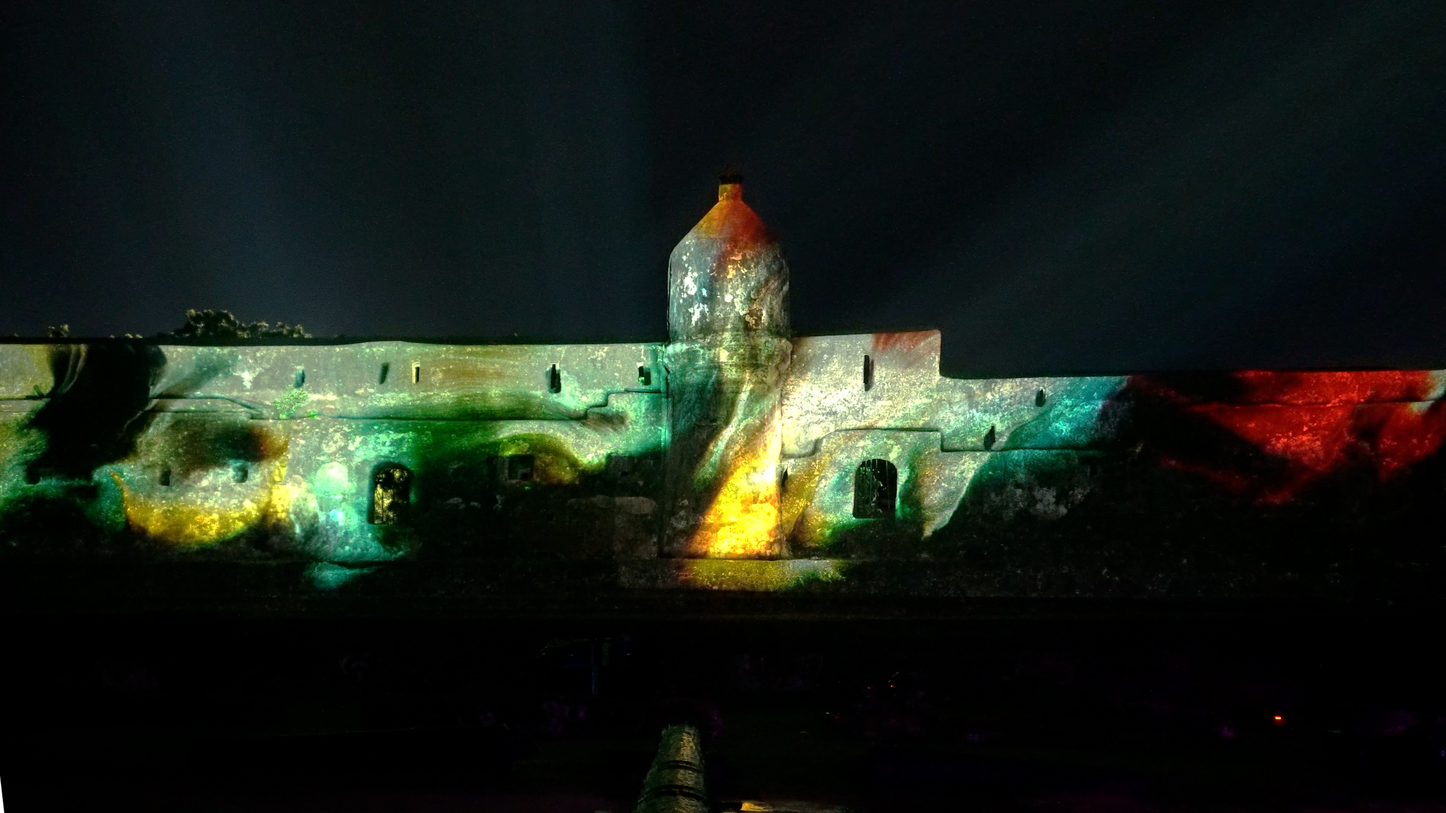
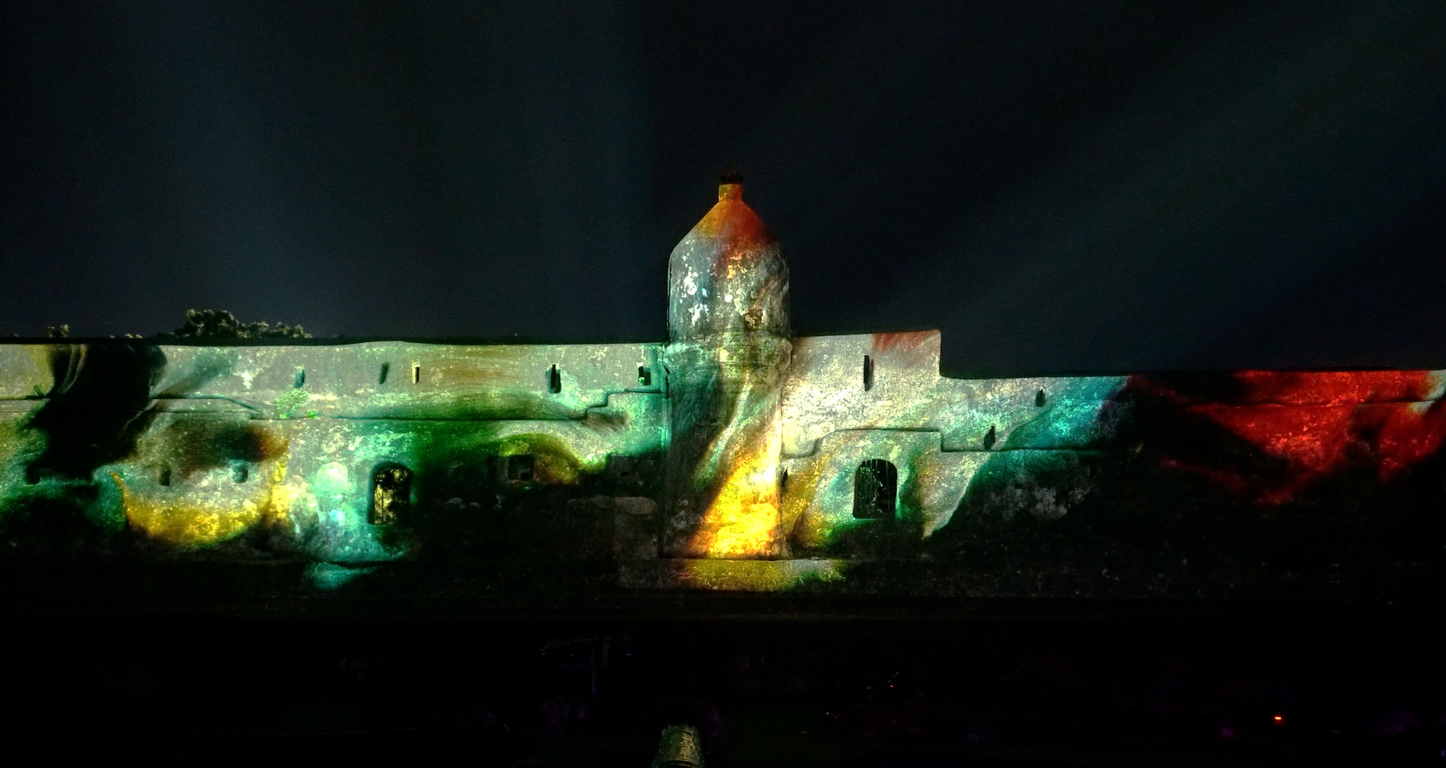
Add new image for Fort Jesus project and fixing fonts

Changed region(s): [[0.0, 0.2162, 1.0, 0.7721], [0.4375, 0.8956, 0.5938, 1.0], [0.875, 0.9265, 0.9062, 0.9574]]

diff --git a/css/main.css b/css/main.css
@@ -9,9 +9,10 @@
   /* Font Scale */
   --font-size-h1: 3.0rem;
   --font-size-h2: 1.5rem;
-  --font-size-h3: 1.2rem;
-  --font-size-body: 1rem;
+  --font-size-h3: 1.5rem;
+  --font-size-body: 1.2rem;
   --font-size-small: 0.9rem;
+  --font-size-credits: 1rem;
 }
 
 * {
@@ -230,6 +231,7 @@ video {
 
 .sidebar-item {
   width: 100%; /* Adjust the width as needed */
+  font-size: var(--font-size-body);
   text-align: left; /* Center the text */
 }
 
@@ -389,7 +391,7 @@ video {
 }
 
 .main-media-credits {
-  font-size: var(--font-size-body);
+  font-size: var(--font-size-credits);
   color: var(--white);
   margin-top: 5px;
   text-align: right;
@@ -535,7 +537,7 @@ video {
   transform: translateX(-50%);
   color: var(--white);
   font-weight: 500;
-  font-size: var(--font-size-small);
+  font-size: var(--font-size-credits);
   z-index: 5;
   pointer-events: none;
   text-decoration: overline;
@@ -609,8 +611,9 @@ video {
 
 #about-content {
   width: 28%;
-  margin-top: 13vw;
+  margin-top: 7vw;
   margin-left: 0%;
+  font-size: var(--font-size-body);
   display: flex;
   flex-direction: column;
   justify-content: center;
@@ -682,8 +685,9 @@ video {
 
 #press,
 #calendar {
+  font-size: var(--font-size-body);
   width: 65%;
-  margin-top: 5vh;
+  margin-top: 3vh;
   margin-left: 15%;
   text-align: justify;
   display: flex;
@@ -847,12 +851,13 @@ video {
   .mobile { display: block; visibility: visible; }
 
   body {
-    font-size: 2.3vh; /* Adjusts size relative to viewport width */
-    --font-size-h1: 2.8vh;
-    --font-size-h2: 2.1vh;
-    --font-size-h3: 1.8vh;
-    --font-size-body: 1.6vh;
-    --font-size-small: 1.4vh;
+    font-size: 1.8vh; /* Adjusts size relative to viewport height */
+    --font-size-h1: 3.8vh;
+    --font-size-h2: 2.6vh;
+    --font-size-h3: 2.2vh;
+    --font-size-body: 2.1vh;
+    --font-size-small: 1.5vh;
+    --font-size-credits: 1.4vh;
   }
 
   .main-content {
@@ -940,7 +945,7 @@ video {
   }
 
   .work-content h1 {
-    font-weight: bold;
+    /* font-weight: bold; */
     font-size: var(--font-size-h1);
   }
 
@@ -971,7 +976,7 @@ video {
   }
 
   .main-media-credits {
-    font-size: var(--font-size-body);
+    font-size: var(--font-size-credits);
     text-decoration: none;
   }
 
@@ -987,7 +992,7 @@ video {
   }
 
   .media-credits {
-    font-size: var(--font-size-h2);
+    font-size: var(--font-size-credits);
     bottom: 10vh;
     font-weight: 400;
   }

diff --git a/about.html b/about.html
@@ -18,23 +18,37 @@
     <div class="desktop">
         <div class="header">
             <div class="column title" style="flex: 2;">
-                <img src="images/novamedia_logo.png" alt="nova icon" style="height: 3vh; vertical-align: middle;">
+                <a href="index.html?splash=false">
+                    <img src="images/novamedia_logo.png" alt="nova icon" style="height: 3vh; vertical-align: middle;">
+                </a>
             </div>
             <div class="row" style="text-align: left; flex: 3; justify-content: left; font-weight: 400;">
             </div>
             <div class="row" style="text-align: right; flex: 1; justify-content: right; font-weight: 400;">
                 <a href="index.html?splash=false">HOME</a>
             </div>
+            <div class="row" style="text-align: right; flex: 1; justify-content: right; font-weight: 400;">
+                <a href="about.html">ABOUT</a>
+            </div>
+            <div class="row" style="text-align: right; flex: 1; justify-content: right; font-weight: 400;">
+                <a href="contact.html">CONTACT</a>
+            </div>
         </div>
     </div>
     <div class="mobile">
         <div class="header">
             <div class="column title" style="flex: 2;">
-                <img src="images/novamedia_logo.png" alt="nova icon" style="height: 3vh; vertical-align: middle;">
+                <a href="index.html?splash=false">
+                    <img src="images/novamedia_logo.png" alt="nova icon" style="height: 3vh; vertical-align: middle;">
+                </a>
             </div>
             <div class="row"
                 style="direction:rtl; text-align:justify; justify-content: right; font-weight: 400; flex: 4;">
                 <a href="index.html?splash=false">HOME </a>
+                <div style="width: 15px; display: inline-block;">�</div>
+                <a href="about.html">ABOUT </a>
+                <div style="width: 15px; display: inline-block;">�</div>
+                <a href="contact.html">CONTACT</a>
             </div>
         </div>
     </div>

diff --git a/contact.html b/contact.html
@@ -17,23 +17,37 @@
     <div class="desktop">
         <div class="header">
             <div class="column title" style="flex: 2;">
-                <img src="images/novamedia_logo.png" alt="nova icon" style="height: 3vh; vertical-align: middle;">
+                <a href="index.html?splash=false">
+                    <img src="images/novamedia_logo.png" alt="nova icon" style="height: 3vh; vertical-align: middle;">
+                </a>
             </div>
             <div class="row" style="text-align: left; flex: 3; justify-content: left; font-weight: 400;">
             </div>
             <div class="row" style="text-align: right; flex: 1; justify-content: right; font-weight: 400;">
                 <a href="index.html?splash=false">HOME</a>
             </div>
+            <div class="row" style="text-align: right; flex: 1; justify-content: right; font-weight: 400;">
+                <a href="about.html">ABOUT</a>
+            </div>
+            <div class="row" style="text-align: right; flex: 1; justify-content: right; font-weight: 400;">
+                <a href="contact.html">CONTACT</a>
+            </div>
         </div>
     </div>
     <div class="mobile">
         <div class="header">
             <div class="column title" style="flex: 2;">
-                <img src="images/novamedia_logo.png" alt="nova icon" style="height: 3vh; vertical-align: middle;">
+                <a href="index.html?splash=false">
+                    <img src="images/novamedia_logo.png" alt="nova icon" style="height: 3vh; vertical-align: middle;">
+                </a>
             </div>
             <div class="row"
                 style="direction:rtl; text-align:justify; justify-content: right; font-weight: 400; flex: 4;">
                 <a href="index.html?splash=false">HOME </a>
+                <div style="width: 15px; display: inline-block;">�</div>
+                <a href="about.html">ABOUT </a>
+                <div style="width: 15px; display: inline-block;">�</div>
+                <a href="contact.html">CONTACT</a>
             </div>
         </div>
     </div>

diff --git a/index.html b/index.html
@@ -14,7 +14,9 @@
 
 <body style="overflow: hidden;">
     <!-- Landing Logo (Fixed) -->
-    <img src="images/novamedia_logo.png" alt="NOVA MEDIA" class="landing-logo">
+    <a href="index.html?splash=false">
+        <img src="images/novamedia_logo.png" alt="NOVA MEDIA" class="landing-logo">
+    </a>
     <!-- Landing Page Overlay -->
     <div id="landing-overlay">
         <div class="landing-video-background">
@@ -34,7 +36,9 @@
     <div class="desktop">
         <div class="header">
             <div class="column title" style="flex: 2;">
-                <img src="images/novamedia_logo.png" alt="nova icon" style="height: 3vh; vertical-align: middle;">
+                <a href="index.html?splash=false">
+                    <img src="images/novamedia_logo.png" alt="nova icon" style="height: 3vh; vertical-align: middle;">
+                </a>
             </div>
             <div id="tags" class="row" style="text-align: left; flex: 3; justify-content: left; font-weight: 400;">
                 <span id="current-tag"></span>
@@ -54,7 +58,9 @@
     <div class="mobile">
         <div class="header">
             <div class="column title" style="flex: 2;">
-                <img src="images/novamedia_logo.png" alt="nova icon" style="height: 3vh; vertical-align: middle;">
+                <a href="index.html?splash=false">
+                    <img src="images/novamedia_logo.png" alt="nova icon" style="height: 3vh; vertical-align: middle;">
+                </a>
             </div>
             <div class="row" style="direction:rtl; text-align:justify; justify-content: right; font-weight: 400; flex: 4;">
                 <a href="index.html?splash=false">HOME </a>

diff --git a/work.html b/work.html
@@ -17,7 +17,9 @@
     <div class="desktop">
         <div class="header">
             <div class="column title" style="flex: 2;">
-                <img src="images/novamedia_logo.png" alt="nova icon" style="height: 3vh; vertical-align: middle;">
+                <a href="index.html?splash=false">
+                    <img src="images/novamedia_logo.png" alt="nova icon" style="height: 3vh; vertical-align: middle;">
+                </a>
             </div>
             <div class="row" style="text-align: left; flex: 3; justify-content: left; font-weight: 400;">
             </div>
@@ -35,7 +37,9 @@
     <div class="mobile">
         <div class="header">
             <div class="column title" style="flex: 2;">
-                <img src="images/novamedia_logo.png" alt="nova icon" style="height: 3vh; vertical-align: middle;">
+                <a href="index.html?splash=false">
+                    <img src="images/novamedia_logo.png" alt="nova icon" style="height: 3vh; vertical-align: middle;">
+                </a>
             </div>
             <div class="row"
                 style="direction:rtl; text-align:justify; justify-content: right; font-weight: 400; flex: 4;">

diff --git a/content/angelino.md b/content/angelino.md
@@ -1,6 +1,8 @@
 A sculptural synthesis between biomorphic nature and synthetic imagination. Born from the collaboration between <a href="https://www.instagram.com/nick_ervinck/" target="_blank" style="text-decoration: underline;">Nick Ervinck</a> – who conceived and developed the project and digital model specifically for this purpose – and Angelino Artworks, which brought his extraordinary vision into physical form, CYRNILOI marks a new and significant milestone in the Belgian artist’s ongoing exploration of the liminal zones where nature, technology and sculptural imagination intertwine and transform.
 
-Video Production: <a href="https://www.instagram.com/spazio__paradiso/" target="_blank" style="text-decoration: underline;">Spazio Paradiso</a> <br>
-VFX Animation: Nova Media Studio
+## Credits
+Artwork | <a href="https://www.instagram.com/nick_ervinck/" target="_blank" style="text-decoration: underline;">Nick Ervinck</a> <br>
+Video Production | <a href="https://www.instagram.com/spazio__paradiso/" target="_blank" style="text-decoration: underline;">Spazio Paradiso</a> <br>
+VFX Animation | Nova Media Studio
 
 <iframe width="560" height="315" src="https://www.youtube.com/embed/S-YhUxeERgs?si=f3za-3uIJJFx5iAh" title="YouTube video player" frameborder="0" allow="accelerometer; autoplay; clipboard-write; encrypted-media; gyroscope; picture-in-picture; web-share" referrerpolicy="strict-origin-when-cross-origin" allowfullscreen></iframe>

diff --git a/content/ogr26.md b/content/ogr26.md
@@ -1,6 +1,6 @@
 Aeterea is an immersive audiovisual installation conceived and produced for the Duomo Hall of OGR Torino in collaboration with <a href="https://www.instagram.com/roomwashere/" target="_blank" style="text-decoration: underline;">ROOM</a>. The hall’s vast industrial architecture, with its towering walls and distinctive crescent-shaped curvature, became both the canvas and collaborator for the installation’s visual narrative. Drawing on the theme of the beyond and the concept of passage, Aeterea reimagines the Duomo Hall as a liminal space — a threshold between realms of perception. Through site-specific projection mapping, the architecture was transformed into a dynamic, virtual non-portal: an ephemeral yet powerful gateway that challenges the boundaries between physical structure and digital expression.
 
-## **Credits**:
+## Credits
 Visual Design | Nova Media Studio <br>
 Light Design | <a href="https://www.instagram.com/momiji__studio/" target="_blank" style="text-decoration: underline;">Momiji Studio</a> <br>
 Music | <a href="https://www.instagram.com/pigallemusic/" target="_blank" style="text-decoration: underline;">Pigalle</a> , <a href="https://www.instagram.com/mario_ferro/" target="_blank" style="text-decoration: underline;">Mario Ferro</a> , <a href="https://www.instagram.com/giorgioguerra/" target="_blank" style="text-decoration: underline;">Giorgio Guerra</a> <br>

diff --git a/content/ogr.md b/content/ogr.md
@@ -1,6 +1,6 @@
 Beyond the Portal is an immersive audiovisual installation conceived and produced for the Duomo Hall of OGR Torino in collaboration with <a href="https://www.instagram.com/roomwashere/" target="_blank" style="text-decoration: underline;">ROOM</a>. The hall’s vast industrial architecture, with its towering walls and distinctive crescent-shaped curvature, became both the canvas and collaborator for the installation’s visual narrative. Drawing on the theme of the beyond and the concept of passage, Beyond the Portal reimagines the Duomo Hall as a liminal space — a threshold between realms of perception. Through site-specific projection mapping, the architecture was transformed into a dynamic, virtual non-portal: an ephemeral yet powerful gateway that challenges the boundaries between physical structure and digital expression.
 
-## **Credits**:
+## Credits
 Visual Design | Nova Media Studio <br>
 Light Design | <a href="https://www.instagram.com/momiji__studio/" target="_blank" style="text-decoration: underline;">Momiji Studio</a> <br>
 Music | <a href="https://www.instagram.com/pigallemusic/" target="_blank" style="text-decoration: underline;">Pigalle</a> <br>

diff --git a/content/fortjesus.md b/content/fortjesus.md
@@ -6,8 +6,8 @@ The initiative pays tribute to Fort Jesus and the legacy of Giovanni Battista Ca
 
 Now recognized as a UNESCO site, Fort Jesus stands as a symbol of dialogue between cultures and an exceptional stage for a project that weaves together contemporary art, historical memory, and technological innovation.
 
-## **Credits**:
-Visual Design | Nova Media Studio <br>
+## Credits
+Visuals and Sound | Nova Media Studio <br>
 Artistic Curator | <a href="https://www.isabellaindolfi.it/" target="_blank" style="text-decoration: underline;">Isabella Indolfi</a> <br>
-Live Music | <a href="https://www.instagram.com/jumatutu/" target="_blank" style="text-decoration: underline;">Juma Tutu</a> , <a href="https://tampueduard.com/" target="_blank" style="text-decoration: underline;">Eduard Tampu</a> <br>
-Photography and Videography | <a href="https://www.isabellaindolfi.it/" target="_blank" style="text-decoration: underline;">Isabella Indolfi</a> <br>
+Music Advisor| <a href="https://www.instagram.com/jumatutu/" target="_blank" style="text-decoration: underline;">Juma Tutu</a>
+Technical Support | Jay Pyrotechnics

diff --git a/content/about.md b/content/about.md
@@ -1,5 +1,3 @@
-**ABOUT**
-
 Nova Media Studio is a multidisciplinary duo founded in 2024 through the collaboration of <a href="https://www.tampueduard.com/about" target="_blank">Eduard Tampu</a> and <a href="https://www.federicasorba.art/contact" target="_blank">Federica Sorba</a>. By combining audio and video media, their goal is to create immersive experiences across different contexts, ranging from live performance to audiovisual installations. Born from an exploration of the sonic dimension through the visual one, their approach goes far beyond the simple fusion of these two media, instead investigating the use of space as a cornerstone in the non-linear narrative that defines their work.
 
 Through experimentation with projection mapping, they have sought to mediate visual content through architectural space, proposing a narrative that moves away from the alienation of the screen. In doing so, they enhance the intrinsic nature of space itself, amplifying its sense of stillness and identity.

diff --git a/content/iscupes.md b/content/iscupes.md
@@ -4,7 +4,7 @@ Our approach to the camera processing wanted to work with the vision of the arti
 
 These visuals were mapped across a custom LED wall configuration consisting of one expansive horizontal display complemented by two IMAGS, creating a panoramic visual field that wrapped the audience in a cohesive visual environment.
 
-## **Credits**:
+## Credits
 
 Produced by | <a href="https://www.instagram.com/panicoconcerti" target="_blank" style="text-decoration: underline;">@panicoconcerti</a> & <a href="https://www.instagram.com/tancarecords" target="_blank" style="text-decoration: underline;">@tancarecords</a> <br>
 Partitura visiva | Alessandro Gagliardo <br>
